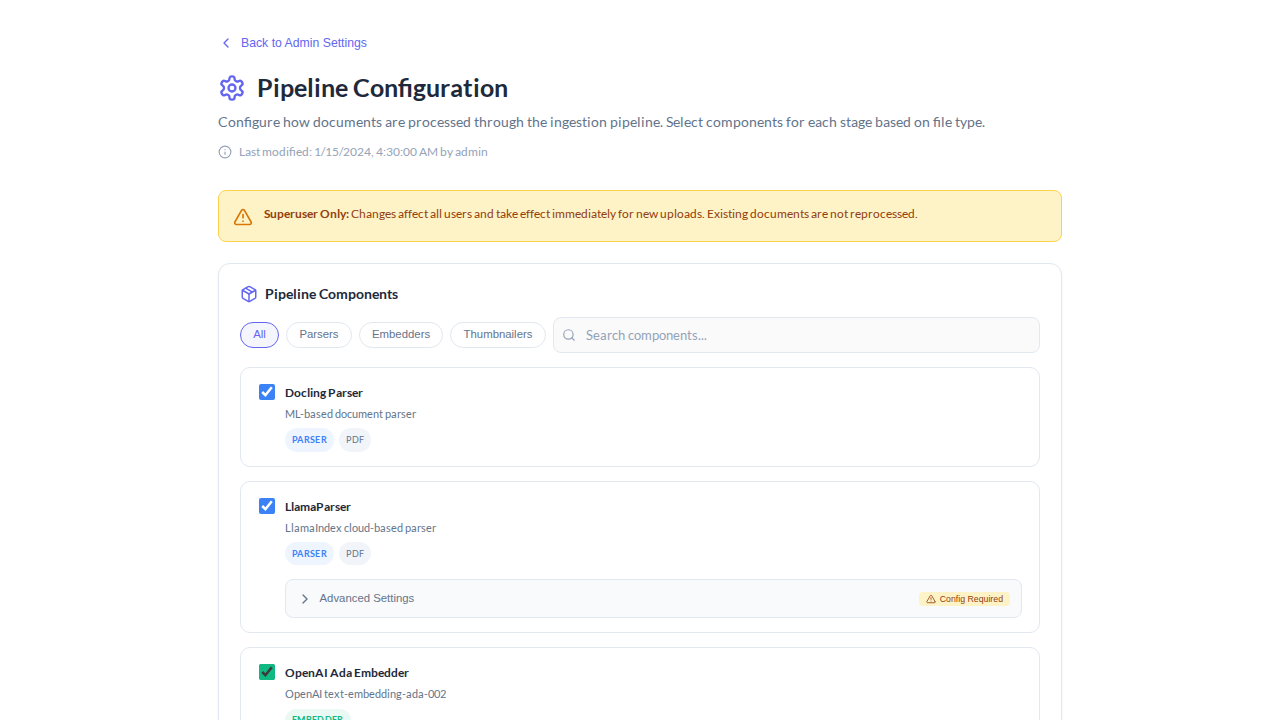
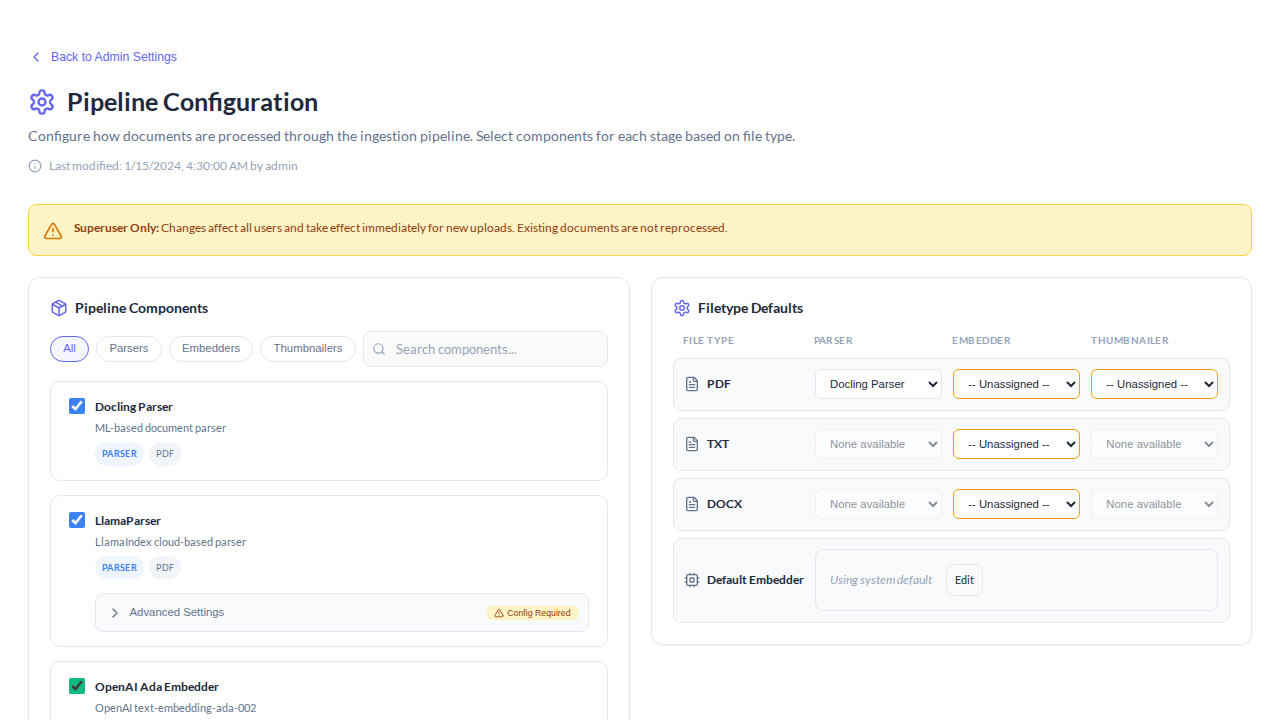
Add component tests for two-column layout and update screenshots
- Add 5 new tests verifying desktop two-column rendering, mobile tab bar,
  tab switching, ARIA attributes, and layout exclusivity
- Fix existing test locators to use .first() scoping since the dual-render
  pattern (desktop + mobile) creates duplicate DOM elements
- Capture 3 new docScreenshots: two-column-desktop, mobile-tabs,
  mobile-filetype-tab
- Add UI Overview section to pipeline_configuration.md referencing the
  auto-generated screenshots

diff --git a/frontend/tests/admin-components.ct.tsx b/frontend/tests/admin-components.ct.tsx
@@ -669,12 +669,14 @@ test.describe("SystemSettings Component", () => {
       timeout: 5000,
     });
 
-    // Check both sections are visible
-    await expect(page.locator("text=Pipeline Components")).toBeVisible();
-    await expect(page.locator("text=Filetype Defaults")).toBeVisible();
+    // Check both sections are visible (use .first() — desktop layout renders first)
+    await expect(
+      page.locator("text=Pipeline Components").first()
+    ).toBeVisible();
+    await expect(page.locator("text=Filetype Defaults").first()).toBeVisible();
 
     // Check component names are visible in ComponentLibrary section
-    const lib = page.locator('[data-testid="component-library"]');
+    const lib = page.locator('[data-testid="component-library"]').first();
     await expect(lib.locator("text=Docling Parser")).toBeVisible({
       timeout: 10000,
     });
@@ -741,7 +743,7 @@ test.describe("SystemSettings Component", () => {
     });
 
     // All 4 components should be visible in the component library
-    const lib = page.locator('[data-testid="component-library"]');
+    const lib = page.locator('[data-testid="component-library"]').first();
     await expect(lib.locator("text=Docling Parser")).toBeVisible({
       timeout: 10000,
     });
@@ -749,8 +751,8 @@ test.describe("SystemSettings Component", () => {
     await expect(lib.locator("text=OpenAI Ada Embedder")).toBeVisible();
     await expect(lib.locator("text=PDF Thumbnailer")).toBeVisible();
 
-    // Checkboxes should exist and be checked
-    const checkboxes = page.locator(
+    // Checkboxes should exist and be checked (scope to desktop layout)
+    const checkboxes = lib.locator(
       'input[type="checkbox"][aria-label*="Disable"]'
     );
     await expect(checkboxes).toHaveCount(4);
@@ -787,7 +789,9 @@ test.describe("SystemSettings Component", () => {
       timeout: 5000,
     });
 
-    const advancedSettingsButton = page
+    // Scope to desktop layout to avoid hidden mobile duplicates
+    const lib = page.locator('[data-testid="component-library"]').first();
+    const advancedSettingsButton = lib
       .locator("button:has-text('Advanced Settings')")
       .last();
     await advancedSettingsButton.click();
@@ -937,7 +941,9 @@ test.describe("SystemSettings Component", () => {
       timeout: 5000,
     });
 
-    const advancedSettingsButton = page
+    // Scope to desktop layout to avoid hidden mobile duplicates
+    const lib = page.locator('[data-testid="component-library"]').first();
+    const advancedSettingsButton = lib
       .locator("button:has-text('Advanced Settings')")
       .last();
     await advancedSettingsButton.click();
@@ -1118,8 +1124,8 @@ test.describe("SystemSettings Component", () => {
       timeout: 5000,
     });
 
-    // Check filter chips
-    const lib = page.locator('[data-testid="component-library"]');
+    // Check filter chips (scope to desktop layout)
+    const lib = page.locator('[data-testid="component-library"]').first();
     await expect(lib.locator("text=All").first()).toBeVisible();
     await expect(lib.locator("text=Parsers").first()).toBeVisible();
     await expect(lib.locator("text=Embedders").first()).toBeVisible();
@@ -1160,8 +1166,8 @@ test.describe("SystemSettings Component", () => {
       timeout: 5000,
     });
 
-    // Scope assertions to the component library section
-    const lib = page.locator('[data-testid="component-library"]');
+    // Scope assertions to the desktop component library
+    const lib = page.locator('[data-testid="component-library"]').first();
 
     // Click "Parsers" filter chip
     await lib.locator("[aria-pressed]", { hasText: "Parsers" }).first().click();
@@ -1202,8 +1208,8 @@ test.describe("SystemSettings Component", () => {
       timeout: 5000,
     });
 
-    // Scope assertions to the component library section
-    const lib = page.locator('[data-testid="component-library"]');
+    // Scope assertions to the desktop component library
+    const lib = page.locator('[data-testid="component-library"]').first();
 
     // Type in the search input
     const searchInput = lib.locator(
@@ -1285,16 +1291,17 @@ test.describe("SystemSettings Component", () => {
       timeout: 5000,
     });
 
-    // Check Filetype Defaults section
-    await expect(page.locator("text=Filetype Defaults")).toBeVisible();
+    // Check Filetype Defaults section (use .first() for desktop layout)
+    await expect(page.locator("text=Filetype Defaults").first()).toBeVisible();
 
     // Check MIME type labels
     await expect(page.locator("text=PDF").first()).toBeVisible();
     await expect(page.locator("text=TXT").first()).toBeVisible();
     await expect(page.locator("text=DOCX").first()).toBeVisible();
 
-    // Check select dropdowns exist (3 MIME types x 3 stages = 9 minimum)
-    const selects = page.locator("select");
+    // Check select dropdowns exist (3 MIME types x 3 stages = 9 minimum, desktop only)
+    // Both layouts render selects; scope to visible ones
+    const selects = page.locator("select:visible");
     const selectCount = await selects.count();
     expect(selectCount).toBeGreaterThanOrEqual(9);
 
@@ -1821,7 +1828,9 @@ test.describe("SystemSettings Component", () => {
       timeout: 5000,
     });
 
-    const advancedSettingsButton = page
+    // Scope to desktop layout to avoid hidden mobile duplicates
+    const lib = page.locator('[data-testid="component-library"]').first();
+    const advancedSettingsButton = lib
       .locator("button:has-text('Advanced Settings')")
       .last();
     await advancedSettingsButton.click();
@@ -1848,6 +1857,179 @@ test.describe("SystemSettings Component", () => {
         timeout: 5000,
       }
     );
+
+    await component.unmount();
+  });
+});
+
+// ============================================================================
+// SystemSettings Two-Column Layout Tests
+// ============================================================================
+
+test.describe("SystemSettings Two-Column Layout", () => {
+  const standardMocks = [
+    {
+      request: { query: GET_PIPELINE_SETTINGS },
+      result: { data: { pipelineSettings: mockPipelineSettings } },
+    },
+    {
+      request: { query: GET_PIPELINE_COMPONENTS },
+      result: { data: { pipelineComponents: mockPipelineComponents } },
+    },
+  ];
+
+  const waitForLoad = async (page: any) => {
+    await expect(
+      page.locator("h1:has-text('Pipeline Configuration')")
+    ).toBeVisible({ timeout: 5000 });
+  };
+
+  test("should render both sections side-by-side on desktop viewport", async ({
+    mount,
+    page,
+  }) => {
+    await page.setViewportSize({ width: 1200, height: 800 });
+
+    const component = await mount(
+      <SystemSettingsWrapper mocks={standardMocks} />
+    );
+    await waitForLoad(page);
+
+    // Both sections should be visible simultaneously in the two-column layout
+    // Use .first() since both desktop and mobile containers render ComponentLibrary
+    // (mobile one is hidden via CSS display:none)
+    const lib = page.locator('[data-testid="component-library"]').first();
+    await expect(lib).toBeVisible({ timeout: 10000 });
+    await expect(lib.locator("text=Docling Parser")).toBeVisible({
+      timeout: 10000,
+    });
+
+    await expect(page.locator("text=Filetype Defaults").first()).toBeVisible();
+    await expect(page.locator("text=PDF").first()).toBeVisible();
+
+    // Mobile tab bar should NOT be visible on desktop
+    await expect(page.locator('div[role="tablist"]')).not.toBeVisible();
+
+    await docScreenshot(page, "admin--pipeline-settings--two-column-desktop");
+
+    await component.unmount();
+  });
+
+  test("should show mobile tab bar at narrow viewport", async ({
+    mount,
+    page,
+  }) => {
+    await page.setViewportSize({ width: 600, height: 800 });
+
+    const component = await mount(
+      <SystemSettingsWrapper mocks={standardMocks} />
+    );
+    await waitForLoad(page);
+
+    // Tab bar should be visible
+    const tablist = page.locator('div[role="tablist"]');
+    await expect(tablist).toBeVisible();
+
+    // Both tab buttons should exist
+    const libraryTab = tablist.locator('button:has-text("Component Library")');
+    const defaultsTab = tablist.locator('button:has-text("Filetype Defaults")');
+    await expect(libraryTab).toBeVisible();
+    await expect(defaultsTab).toBeVisible();
+
+    // Component Library tab should be active by default
+    await expect(libraryTab).toHaveAttribute("aria-selected", "true");
+    await expect(defaultsTab).toHaveAttribute("aria-selected", "false");
+
+    // Component Library content should be visible (use last() — mobile tab panel's instance)
+    const lib = page.locator('[data-testid="component-library"]').last();
+    await expect(lib).toBeVisible({ timeout: 10000 });
+
+    await docScreenshot(page, "admin--pipeline-settings--mobile-tabs");
+
+    await component.unmount();
+  });
+
+  test("should switch tabs on mobile viewport", async ({ mount, page }) => {
+    await page.setViewportSize({ width: 600, height: 800 });
+
+    const component = await mount(
+      <SystemSettingsWrapper mocks={standardMocks} />
+    );
+    await waitForLoad(page);
+
+    const tablist = page.locator('div[role="tablist"]');
+    const libraryTab = tablist.locator('button:has-text("Component Library")');
+    const defaultsTab = tablist.locator('button:has-text("Filetype Defaults")');
+
+    // Click Filetype Defaults tab
+    await defaultsTab.click();
+
+    // Filetype Defaults tab should now be active
+    await expect(defaultsTab).toHaveAttribute("aria-selected", "true");
+    await expect(libraryTab).toHaveAttribute("aria-selected", "false");
+
+    // Filetype Defaults content should be visible
+    // Scope to the tabpanel to avoid matching hidden desktop layout elements
+    const tabpanel = page.locator('div[role="tabpanel"]');
+    await expect(tabpanel.locator("text=Filetype Defaults")).toBeVisible();
+    await expect(tabpanel.locator("text=PDF").first()).toBeVisible();
+
+    await docScreenshot(page, "admin--pipeline-settings--mobile-filetype-tab");
+
+    // Switch back to Component Library
+    await libraryTab.click();
+    await expect(libraryTab).toHaveAttribute("aria-selected", "true");
+
+    const lib = page.locator('[data-testid="component-library"]').last();
+    await expect(lib).toBeVisible({ timeout: 10000 });
+
+    await component.unmount();
+  });
+
+  test("should have correct ARIA attributes on mobile tabs", async ({
+    mount,
+    page,
+  }) => {
+    await page.setViewportSize({ width: 600, height: 800 });
+
+    const component = await mount(
+      <SystemSettingsWrapper mocks={standardMocks} />
+    );
+    await waitForLoad(page);
+
+    // Verify tablist role
+    const tablist = page.locator('div[role="tablist"]');
+    await expect(tablist).toBeVisible();
+
+    // Verify tab roles
+    const tabs = tablist.locator('button[role="tab"]');
+    await expect(tabs).toHaveCount(2);
+
+    // Verify tabpanel role
+    const tabpanel = page.locator('div[role="tabpanel"]');
+    await expect(tabpanel).toBeVisible();
+
+    await component.unmount();
+  });
+
+  test("should hide mobile tabs on desktop viewport", async ({
+    mount,
+    page,
+  }) => {
+    await page.setViewportSize({ width: 1200, height: 800 });
+
+    const component = await mount(
+      <SystemSettingsWrapper mocks={standardMocks} />
+    );
+    await waitForLoad(page);
+
+    // Mobile tab container should be hidden
+    await expect(page.locator('div[role="tablist"]')).not.toBeVisible();
+
+    // Both sections should be visible in two-column layout
+    const lib = page.locator('[data-testid="component-library"]').first();
+    await expect(lib).toBeVisible({ timeout: 10000 });
+    await expect(page.locator("text=Filetype Defaults").first()).toBeVisible();
 
     await component.unmount();
   });

diff --git a/docs/pipelines/pipeline_configuration.md b/docs/pipelines/pipeline_configuration.md
@@ -144,6 +144,20 @@ Superusers can configure the pipeline at runtime through the Admin UI:
 2. Configure preferred components per MIME type
 3. Add API keys via the **Component Secrets** section
 
+### UI Overview
+
+On desktop, the Pipeline Configuration page uses a **two-column layout** with the Component Library on the left and Filetype Defaults on the right:
+
+![Pipeline Configuration — desktop two-column layout](../assets/images/screenshots/auto/admin--pipeline-settings--two-column-desktop.png)
+
+On mobile and tablet viewports, the two sections collapse into a **tabbed interface**:
+
+![Pipeline Configuration — mobile tab view](../assets/images/screenshots/auto/admin--pipeline-settings--mobile-tabs.png)
+
+Switching to the Filetype Defaults tab shows the per-MIME-type parser/embedder/thumbnailer assignment:
+
+![Pipeline Configuration — mobile filetype defaults tab](../assets/images/screenshots/auto/admin--pipeline-settings--mobile-filetype-tab.png)
+
 ### Component Secrets
 
 Sensitive configuration (API keys, credentials) is stored encrypted in the database. Secrets are encrypted using Django's `SECRET_KEY`.
